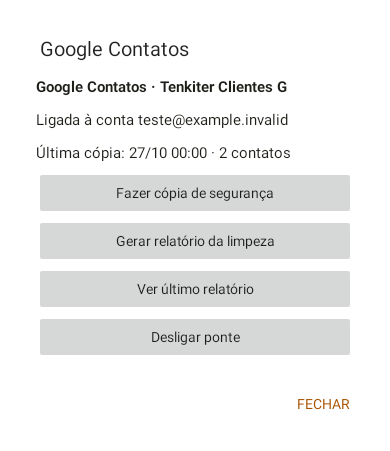
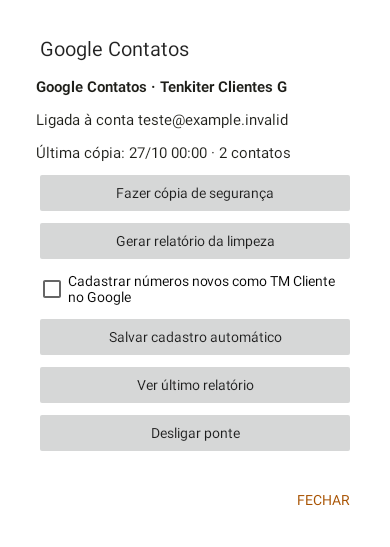
Mantém paridade com limpeza aprovada e cadastro de contatos atuais

Changed region(s): [[0.0923, 0.0621, 0.9231, 0.8381], [0.7385, 0.8692, 0.8923, 0.9313]]

diff --git a/android/app/src/main/java/br/com/tenkitermodas/mensagens/NativeAdministration.kt b/android/app/src/main/java/br/com/tenkitermodas/mensagens/NativeAdministration.kt
@@ -157,6 +157,12 @@ class NativeAdministration(private val activity:Activity,private val scope:Corou
             box.addView(button("Gerar relatório da limpeza"){
                 builder().setTitle("Gerar relatório?").setMessage("O relatório somente lê os contatos em partes. Não junta, corrige ou apaga contatos.").setPositiveButton("Confirmar"){_,_->contactsJob(true)}.setNegativeButton("Cancelar",null).show()
             }.apply{isEnabled=backup!=null})
+            r.optJSONObject("limpeza")?.let{last->box.addView(text("Última limpeza: "+stamp(last.optString("em"))+" · ${last.optInt("juntados")} pessoas juntadas · ${last.optInt("padronizados")} padronizados · ${last.optInt("criados")} novos"))}
+            val automatic=CheckBox(activity).apply{text="Cadastrar números novos como TM Cliente no Google";minHeight=dp(48);isChecked=r.optBoolean("auto")};box.addView(automatic)
+            box.addView(button("Salvar cadastro automático"){
+                confirm("Alterar cadastro automático?",if(automatic.isChecked)"Cada número novo do WhatsApp poderá criar um contato TM Cliente no Google."else"Os próximos números não serão cadastrados automaticamente.",{repo.administration("/msg/contatos/auto",JSONObject().put("ligado",automatic.isChecked))}){toast("Cadastro automático atualizado.");close();contacts()}
+            })
+            r.optJSONObject("fila")?.let{queue->box.addView(text("Cadastro automático: ${queue.optInt("feitos")} criados · ${queue.optInt("pendentes")} na fila · ${queue.optInt("falhas")} com erro"))}
             box.addView(button("Ver último relatório"){report(r.optJSONObject("relatorio"))})
             box.addView(button("Desligar ponte"){
                 confirm("Desligar a ponte?","A conexão com Google Contatos será removida. Nenhum contato será apagado.",{repo.administration("/msg/contatos/config",JSONObject().put("desligar",true))}){close();contacts()}
@@ -164,35 +170,49 @@ class NativeAdministration(private val activity:Activity,private val scope:Corou
         }
         sheet("Google Contatos",box)
     }}
-    private fun contactsJob(reporting:Boolean){
+    private fun contactsJob(reporting:Boolean,cleaning:Boolean=false){
         val box=column();val label=text("Preparando…");box.addView(label)
         val progress=ProgressBar(activity,null,android.R.attr.progressBarStyleHorizontal).apply{max=100;isIndeterminate=true};box.addView(progress)
-        box.addView(text("Mantenha esta tela aberta. Parar não altera os contatos; uma nova tentativa recomeça a operação."))
+        box.addView(text(if(cleaning)"Mantenha esta tela aberta. Se parar, alterações já aplicadas permanecem. Confira o resultado antes de continuar."else"Mantenha esta tela aberta. Parar não altera os contatos; uma nova tentativa recomeça a operação."))
         val stop=java.util.concurrent.atomic.AtomicBoolean(false)
-        val d=builder().setTitle(if(reporting)"Lendo contatos"else"Copiando contatos").setView(box).setCancelable(false).setNegativeButton("Parar após esta parte",null).show()
+        val d=builder().setTitle(if(cleaning)"Aplicando limpeza"else if(reporting)"Lendo contatos"else"Copiando contatos").setView(box).setCancelable(false).setNegativeButton("Parar após esta parte",null).show()
         d.getButton(AlertDialog.BUTTON_NEGATIVE).setOnClickListener{stop.set(true);it.isEnabled=false;label.text="Parando após esta parte…"}
         activity.window.addFlags(android.view.WindowManager.LayoutParams.FLAG_KEEP_SCREEN_ON)
         val owner=repo.store.stampedAuth()
         fun currentOwner()=owner.second==repo.store.generation&&owner.first?.owner==repo.store.auth()?.owner
         work({
-            fun check(){if(stop.get())throw Exception("Operação interrompida. Os contatos não foram alterados.");if(!currentOwner())throw AccessRevoked();if(!scope.isActive)throw CancellationException()}
+            fun check(){if(stop.get())throw Exception(if(cleaning)"Limpeza interrompida. O que já foi feito permanece; confira o resultado."else"Operação interrompida. Os contatos não foram alterados.");if(!currentOwner())throw AccessRevoked();if(!scope.isActive)throw CancellationException()}
             fun call(path:String,body:JSONObject):JSONObject{check();return repo.administration(path,body)}
-            try{
-                if(reporting)call("/msg/contatos/relatorio",JSONObject().put("etapa","inicio"))
-                var page="";var folder="";var finished=false;var latest=JSONObject()
+            fun update(title:String,r:JSONObject,count:String="lidos",totalKey:String="total"){
+                val read=r.optInt(count);val total=maxOf(read,r.optInt(totalKey))
+                activity.runOnUiThread{if(d.isShowing&&currentOwner()){label.text="$title · $read de $total";progress.isIndeterminate=total==0;if(total>0)progress.progress=(read.toLong()*100/total).toInt()}}
+            }
+            fun pages(report:Boolean):JSONObject{
+                if(report)call("/msg/contatos/relatorio",JSONObject().put("etapa","inicio"))
+                var page="";var folder=""
                 for(part in 0 until 400){
-                    val payload=if(reporting)JSONObject().put("etapa","parte")else JSONObject().put("partes",true)
+                    val payload=if(report)JSONObject().put("etapa","parte")else JSONObject().put("partes",true)
                     if(page.isNotBlank())payload.put("pagina",page);if(folder.isNotBlank())payload.put("pasta",folder)
-                    latest=call(if(reporting)"/msg/contatos/relatorio"else"/msg/contatos/backup",payload)
-                    val read=latest.optInt("lidos");val total=maxOf(read,latest.optInt(if(reporting)"total"else"totalPessoas"))
-                    activity.runOnUiThread{if(d.isShowing&&currentOwner()){label.text="$read de $total contatos";progress.isIndeterminate=total==0;if(total>0)progress.progress=(read.toLong()*100/total).toInt()}}
-                    page=latest.optString("proxima");folder=latest.optString("pasta")
-                    if(if(reporting)page.isBlank()else latest.optBoolean("fim")){finished=true;break}
-                }
-                if(!finished)throw Exception("Limite de partes atingido. Recomece a operação.")
-                if(reporting)call("/msg/contatos/relatorio",JSONObject().put("etapa","fim"))else latest
+                    val r=call(if(report)"/msg/contatos/relatorio"else"/msg/contatos/backup",payload)
+                    update(if(report)"Lendo contatos"else"Cópia de segurança",r,totalKey=if(report)"total"else"totalPessoas")
+                    page=r.optString("proxima");folder=r.optString("pasta")
+                    if(if(report)page.isBlank()else r.optBoolean("fim"))return if(report)call("/msg/contatos/relatorio",JSONObject().put("etapa","fim"))else r
+                };throw Exception("Limite de partes atingido. Recomece a operação.")
+            }
+            fun cleanStage(stage:String,title:String){
+                var since=0;var page="";var continuing=false
+                for(part in 0 until 400){
+                    val body=JSONObject().put("etapa",stage)
+                    when(stage){"juntar"->body.put("desde",since);"padronizar"->if(page.isNotBlank())body.put("pagina",page);"criar"->body.put("continuar",continuing)}
+                    val r=call("/msg/contatos/limpeza",body);update(title,r,"feito")
+                    since=r.optInt("proximo");page=r.optString("proxima");continuing=true
+                    if(when(stage){"juntar"->since==0;"padronizar"->page.isBlank();else->r.optInt("restantes")==0})return
+                };throw Exception("Limpeza interrompida pelo limite de partes. Confira o resultado.")
+            }
+            try{
+                if(cleaning){pages(false);pages(true);cleanStage("juntar","Juntando pessoas");cleanStage("padronizar","Padronizando números");cleanStage("criar","Criando TM Cliente");call("/msg/contatos/limpeza",JSONObject().put("etapa","fim"))}else pages(reporting)
             }finally{activity.runOnUiThread{d.dismiss();activity.window.clearFlags(android.view.WindowManager.LayoutParams.FLAG_KEEP_SCREEN_ON)}}
-        }){r->if(reporting)report(r.optJSONObject("relatorio")?:r)else{toast("Cópia de segurança concluída.");close();contacts()}}
+        }){r->if(cleaning){toast("Limpeza concluída: ${r.optInt("juntados")} pessoas juntadas, ${r.optInt("padronizados")} padronizados e ${r.optInt("criados")} novos. Cadastro automático ligado.");close();contacts()}else if(reporting)report(r.optJSONObject("relatorio")?:r)else{toast("Cópia de segurança concluída.");close();contacts()}}
     }
     private fun report(r:JSONObject?){
         val box=column();if(r==null){box.addView(text("Ainda não há relatório. Gere após a cópia de segurança."));sheet("Relatório dos contatos",box);return}
@@ -205,7 +225,11 @@ class NativeAdministration(private val activity:Activity,private val scope:Corou
                     detail.addView(text(line))
                 };if(detail.childCount==0)detail.addView(text("Nenhum."));sheet(label,detail)
             })
-        };sheet("Relatório dos contatos",box)
+        }
+        box.addView(text("A limpeza faz cópia nova, relê o relatório, junta pessoas repetidas, padroniza números e cria TM Cliente. Ao terminar liga o cadastro automático. Requer ponte 1.2."))
+        box.addView(button("Aplicar a limpeza aprovada"){
+            builder().setTitle("Aplicar limpeza no Google?").setMessage("Faz uma cópia nova e um relatório, junta repetidos preservando o nome mais completo, padroniza números e cria contatos TM Cliente. Duplicados são removidos após junção. Ao terminar, liga o cadastro automático. Isso altera contatos reais. Mantenha esta tela aberta.").setPositiveButton("Aplicar limpeza"){_,_->contactsJob(true,true)}.setNegativeButton("Cancelar",null).show()
+        });sheet("Relatório dos contatos",box)
     }
     private class HourChart(c:android.content.Context,private val hours:List<JSONObject>):View(c){
         private val ink=android.graphics.Paint(android.graphics.Paint.ANTI_ALIAS_FLAG)

diff --git a/android/app/src/test/java/br/com/tenkitermodas/mensagens/NativeAdministrationTest.kt b/android/app/src/test/java/br/com/tenkitermodas/mensagens/NativeAdministrationTest.kt
@@ -39,7 +39,7 @@ class NativeAdministrationTest {
             return when{
                 path=="/msg/config"->JSONObject().put("ok",true).put("meuNome","Clarice").put("config",JSONObject().put("assinatura",true).put("lerCelular",JSONObject().put("whatsapp1",true).put("whatsapp2",false).put("instagram",true)))
                 path.startsWith("/msg/metricas")->JSONObject().put("ok",true).put("dias",if(path.contains("dias=7"))7 else 30).put("entradas",24).put("saidas",20).put("conversas",5).put("medianaMin",JSONObject.NULL).put("ate5min",70).put("aguardando",JSONObject().put("total",2).put("maisAntigas",JSONArray().put(JSONObject().put("id",1).put("nome","Cliente teste").put("desde","2026-10-27T00:00:00Z")))).put("porHora",JSONArray((0..23).map{JSONObject().put("hora",it).put("entradas",it).put("medianaMin",5)}))
-                path.startsWith("/msg/contatos/situacao")->JSONObject().put("ok",true).put("ligada",linked).put("conta","teste@example.invalid").apply{if(backup)put("backup",JSONObject().put("em","2026-10-27T00:00:00Z").put("total",2))}
+                path.startsWith("/msg/contatos/situacao")->JSONObject().put("ok",true).put("ligada",linked).put("conta","teste@example.invalid").apply{if(backup){put("backup",JSONObject().put("em","2026-10-27T00:00:00Z").put("total",2));put("relatorio",JSONObject().put("total",2))}}
                 path=="/msg/contatos/backup"->JSONObject().put("ok",true).put("fim",body?.optString("pagina")=="next").put("proxima",if(body?.optString("pagina")=="next")""else"next").put("pasta","folder-test-123").put("lidos",if(body?.optString("pagina")=="next")2 else 1).put("totalPessoas",2)
                 path=="/msg/contatos/relatorio"&&body?.optString("etapa")=="inicio"->JSONObject().put("ok",true)
                 path=="/msg/contatos/relatorio"&&body?.optString("etapa")=="parte"->JSONObject().put("ok",true).put("lidos",if(body.optString("pagina")=="next")2 else 1).put("total",2).put("proxima",if(body.optString("pagina")=="next")""else"next")
@@ -91,6 +91,15 @@ class NativeAdministrationTest {
         f.fake.linked=true;f.ui.contacts();val d=dialog("Google Contatos");button(d,"Fazer cópia de segurança").performClick();assertTrue(f.fake.writes.isEmpty());dialog("Fazer cópia dos contatos?").getButton(AlertDialog.BUTTON_POSITIVE).performClick()
         waitFor{f.fake.writes.size==2};dialog("Google Contatos")
         val first=f.fake.writes[0].second;val second=f.fake.writes[1].second;assertTrue(first.getBoolean("partes"));assertFalse(first.has("pagina"));assertEquals("next",second.getString("pagina"));assertEquals("folder-test-123",second.getString("pasta"));assertFalse(f.ui.active.not())
+    }}
+    @Test fun cleanupRequiresConfirmationAndMakesBackupAndReportBeforeMutations(){Fixture().use{f->
+        f.fake.linked=true;f.fake.backup=true;f.ui.contacts();button(dialog("Google Contatos"),"Ver último relatório").performClick();val report=dialog("Relatório dos contatos")
+        button(report,"Aplicar a limpeza aprovada").performClick();val confirm=dialog("Aplicar limpeza no Google?");assertTrue(f.fake.writes.isEmpty());confirm.getButton(AlertDialog.BUTTON_NEGATIVE).performClick();assertTrue(f.fake.writes.isEmpty())
+        button(report,"Aplicar a limpeza aprovada").performClick();dialog("Aplicar limpeza no Google?").getButton(AlertDialog.BUTTON_POSITIVE).performClick();waitFor{f.fake.writes.size==10};dialog("Google Contatos")
+        assertEquals(listOf("/msg/contatos/backup","/msg/contatos/backup","/msg/contatos/relatorio","/msg/contatos/relatorio","/msg/contatos/relatorio","/msg/contatos/relatorio","/msg/contatos/limpeza","/msg/contatos/limpeza","/msg/contatos/limpeza","/msg/contatos/limpeza"),f.fake.writes.map{it.first});assertEquals(listOf("juntar","padronizar","criar","fim"),f.fake.writes.takeLast(4).map{it.second.getString("etapa")})
+    }}
+    @Test fun automaticContactsDoNotChangeUntilSavedAndConfirmed(){Fixture().use{f->
+        f.fake.linked=true;f.ui.contacts();val d=dialog("Google Contatos");val check=all(d.window!!.decorView).filterIsInstance<CheckBox>().first{it.text.startsWith("Cadastrar números")};check.performClick();assertTrue(f.fake.writes.isEmpty());button(d,"Salvar cadastro automático").performClick();assertTrue(f.fake.writes.isEmpty());dialog("Alterar cadastro automático?").getButton(AlertDialog.BUTTON_POSITIVE).performClick();waitFor{f.fake.writes.size==1};assertEquals("/msg/contatos/auto",f.fake.writes.single().first);assertTrue(f.fake.writes.single().second.getBoolean("ligado"))
     }}
     @Test fun bridgeSetupMasksTheKeyAndDoesNotSaveBeforeTheUserChooses(){Fixture().use{f->
         f.ui.contacts();val d=dialog("Google Contatos");val fields=all(d.window!!.decorView).filterIsInstance<EditText>()

diff --git a/android/app/src/main/java/br/com/tenkitermodas/mensagens/NativeRepository.kt b/android/app/src/main/java/br/com/tenkitermodas/mensagens/NativeRepository.kt
@@ -119,7 +119,7 @@ class NativeRepository internal constructor(private val context:Context,val stor
         }catch(e:AccessRevoked){logout();throw e}
     }
     fun administration(path:String,body:JSONObject?=null):JSONObject=lock.withLock{
-        require(path.substringBefore('?') in setOf("/msg/config","/msg/metricas","/msg/resumo","/msg/diagnostico","/msg/instagram/situacao","/msg/instagram/segredo","/msg/instagram/assinar","/msg/ligar","/msg/pausar","/msg/contatos/situacao","/msg/contatos/config","/msg/contatos/backup","/msg/contatos/relatorio","/msg/stories"))
+        require(path.substringBefore('?') in setOf("/msg/config","/msg/metricas","/msg/resumo","/msg/diagnostico","/msg/instagram/situacao","/msg/instagram/segredo","/msg/instagram/assinar","/msg/ligar","/msg/pausar","/msg/contatos/situacao","/msg/contatos/config","/msg/contatos/backup","/msg/contatos/relatorio","/msg/contatos/limpeza","/msg/contatos/auto","/msg/stories"))
         val a=store.auth()?:throw AccessRevoked()
         try{api.call(path,a,body).also{if(!store.current(a))throw AccessRevoked()}}catch(e:AccessRevoked){logout();throw e}
     }

diff --git a/docs/revisoes/android-paridade-2.2.md b/docs/revisoes/android-paridade-2.2.md
@@ -11,8 +11,8 @@ Skill `.agents/skills/tenkiter-estetica-humana/SKILL.md`, checklist e fontes rel
 - [Produtos](android-paridade-2.2/products-native.png), [busca focada/altura útil 480](android-paridade-2.2/products-keyboard-native.png), [configurações](android-paridade-2.2/settings-native.png), [contatos](android-paridade-2.2/contacts-native.png).
 - Exportação: [320](android-paridade-2.2/export-320.png), [390](android-paridade-2.2/export-390.png), [412](android-paridade-2.2/export-412.png), [1440](android-paridade-2.2/export-1440.png). [Painel](android-paridade-2.2/dashboard-native.png), [gráfico/ações ao fim](android-paridade-2.2/dashboard-hours-native.png).
 - [Escolha de prévia no compositor](android-paridade-2.2/conversation-link-preview.png), visível somente com link no WhatsApp.
-- 36 testes Android API35 com gráficos nativos: MotionEvent DOWN/espera/UP em texto e botão Espiar; não abre conversa nem confirma leitura, marca a seleção e disponibiliza Encerrar. Atualização durante o toque não cancela gesto. Botão Selecionar e ações do lote operam os IDs selecionados.
-- Produtos/links/rascunho, prévia por canal, cópia/relatório por páginas com progresso e parada, configurações e exportação com confirmação, painel por período/canal, relatório de contatos somente leitura e revogação de sessão. Datas inválidas mantêm o formulário, erro de conexão mantém caminho de nova tentativa. Testes sem envios/alterações reais.
+- 38 testes Android API35 com gráficos nativos: MotionEvent DOWN/espera/UP em texto e botão Espiar; não abre conversa nem confirma leitura, marca a seleção e disponibiliza Encerrar. Atualização durante o toque não cancela gesto. Botão Selecionar e ações do lote operam os IDs selecionados.
+- Produtos/links/rascunho, prévia por canal, cópia/relatório por páginas com progresso e parada, limpeza separada com confirmação e cópia/relatório prévios, configurações e exportação com confirmação, painel por período/canal, relatório de contatos somente leitura e revogação de sessão. Datas inválidas mantêm o formulário, erro de conexão mantém caminho de nova tentativa. Testes sem envios/alterações reais.
 
 ## Correções e medidas
 
@@ -20,4 +20,4 @@ O defeito era o evento de toque longo ficar apenas na ListView, enquanto o botã
 
 Cabeçalho 52dp, busca 56dp, faixas 2×52dp. Ao selecionar, as faixas dão lugar à barra de lote de 104dp, mantendo a posição da lista. Guia/Selecionar 48dp; ações críticas >=48dp; células >=96dp. Filtros têm rolagem horizontal deliberada, corpo não. Formulários administrativos em ScrollView; produtos com área flexível para teclado. Nome/preview truncam quando necessário; status e não lidas têm texto além de cor. Controles padrão mantêm foco Android e ordem sequencial, sem nova interação obrigatória somente por cor ou gesto.
 
-**APROVADO COM LIMITAÇÃO.** Lint Release sem erros; 36 testes passaram. Validação gráfica e interações são simuladas: 1440 é Android ampliado, teclado representado por foco/altura reduzida. Não houve teste físico de IME, TalkBack, instalação/atualização, gravação/codecs/visualizadores, seletor de compartilhamento ou entrega/ações de notificação com app fechado. Essas limitações não são apresentadas como teste real concluído.
+**APROVADO COM LIMITAÇÃO.** Lint Release sem erros; 38 testes passaram. Validação gráfica e interações são simuladas: 1440 é Android ampliado, teclado representado por foco/altura reduzida. Não houve teste físico de IME, TalkBack, instalação/atualização, gravação/codecs/visualizadores, seletor de compartilhamento ou entrega/ações de notificação com app fechado. Essas limitações não são apresentadas como teste real concluído.

diff --git a/docs/android/APP-2.2.md b/docs/android/APP-2.2.md
@@ -13,7 +13,7 @@ No menu **⋮** da lista:
 - **Painel de atendimento:** espera atual, primeira resposta, encerramentos, perguntas por hora, canais e períodos de 7/30/90 dias. Toque nas conversas que esperam há mais tempo para atender.
 - **Configurações de leitura e nome:** confirmação de leitura por canal, últimas tentativas, nome do atendente e assinatura compartilhada. Só Salvar altera a configuração.
 - **Conexões e gravação:** ativar recebimento/envios/leituras nos WhatsApps, pausar/retomar, diagnósticos WhatsApp e Instagram, guardar segredo Meta, assinar mensagens e copiar webhook protegido. Confirme as operações de alteração.
-- **Google Contatos:** ligar a ponte existente, fazer cópia no Drive, gerar/ver relatório e desligar. Relatório não junta nem apaga contatos. A aplicação de limpeza não faz parte dessa tela.
+- **Google Contatos:** ligar a ponte existente, fazer cópia no Drive, gerar/ver relatório e desligar. Relatório não junta nem apaga contatos. **Aplicar a limpeza aprovada**, no relatório, pede confirmação e faz cópia nova antes de juntar/padronizar/criar contatos; ao terminar liga o cadastro automático. Essa operação altera contatos reais, diferentemente de gerar o relatório.
 - **Exportar conversas:** TXT para IA, CSV ou JSON; todas, canal ou conversa; datas inicial e final. O Android abre Salvar/Compartilhar e o usuário escolhe o destino. Arquivos grandes podem ser limitados pelo servidor, com aviso para dividir por datas.
 
 No menu de uma conversa: encerrar/reabrir, marcar não lida, abrir no outro WhatsApp, leitura/assinatura, copiar texto para IA e exportar. **Espiar** conserva não lida e oculta o envio; **Abrir para responder** inicia atendimento normal. Produtos, respostas rápidas, anexos e gravação continuam disponíveis.
@@ -30,8 +30,8 @@ A lista local mostra até mil conversas por consulta; busca também consulta o t
 
 A prévia de links acompanha o painel web atual: ao escrever um link no WhatsApp, **Mostrar prévia do link (miniatura)** aparece acima do campo; começa desmarcada e lembra a escolha por canal. Não se aplica a anexos ou Instagram. Produtos/seleções usam o título correspondente quando o catálogo já foi consultado.
 
-Cópia e relatório de Google Contatos usam partes, com andamento visível, tela mantida acesa enquanto o app está aberto e **Parar após esta parte**. A cópia requer a ponte 1.1 já publicada. Se interromper ou perder conexão, recomece; nenhuma limpeza é aplicada.
+Cópia e relatório de Google Contatos usam partes, com andamento visível, tela mantida acesa enquanto o app está aberto e **Parar após esta parte**. A cópia requer a ponte atualizada (1.2 para limpeza). Se interromper ou perder conexão, recomece; relatório/cópia não aplicam limpeza. Na limpeza confirmada, alterações já aplicadas permanecem se parar.
 
 O menu Atendimento completo continua como alternativa, mas as operações listadas acima já são nativas. Veja [matriz de funções](PARIDADE-ATENDIMENTO-2.2.md) e [revisão visual](../revisoes/android-paridade-2.2.md).
 
-36 testes Robolectric, lint Release e compilação assinada passaram. Instalação, teclado real, TalkBack, microfone/codecs, compartilhamento com outros apps e entrega de notificação com app fechado precisam de conferência no aparelho. Nenhuma mensagem, notificação ou alteração de conexão real foi usada como teste.
+38 testes Robolectric, lint Release e compilação assinada passaram. Instalação, teclado real, TalkBack, microfone/codecs, compartilhamento com outros apps e entrega de notificação com app fechado precisam de conferência no aparelho. Nenhuma mensagem, notificação ou alteração de conexão real foi usada como teste.

diff --git a/docs/android/PARIDADE-ATENDIMENTO-2.2.md b/docs/android/PARIDADE-ATENDIMENTO-2.2.md
@@ -21,14 +21,15 @@ Referência: ações do controlador `admin-mensagens.js`, mantidas nas rotas exi
 | `painel`, `painel-dias`, `fechar-painel` | Painel nativo com 7/30/90 dias, canais, indicadores, espera, gráfico/detalhe de horas, exportar e fechar |
 | `conexao`, `ligar`, `pausar` | Conexões e gravação: WhatsApps, pausa/retomada, diagnóstico e confirmação explícita |
 | `segredo`, `assinar` | Diagnóstico Instagram: segredo Meta mascarado, guardar no servidor e assinatura de mensagens |
+| `ponte-limpar`, `ponte-auto` | Aplicar limpeza com confirmação, cópia/relatório novos antes de juntar/padronizar/criar; progresso/parada e cadastro automático salvo explicitamente |
 | `ponte-ligar`, `ponte-backup`, `ponte-relatorio`, `ponte-ver`, `ponte-desligar` | Google Contatos: ponte, cópia no Drive, relatório somente leitura/detalhes e desligamento |
 
-A versão 7.35 foi integrada sem sobrescrever prévia de links, Zernio ou o novo contrato de contatos do site. No nativo, a escolha de prévia aparece no compositor e usa `/msg/enviar` com os mesmos campos; Google Contatos usa `partes` e `etapa: inicio/parte/fim`, exibe progresso e permite parar após a parte corrente. Nenhuma configuração Zernio foi modificada: ela pertence a Conexões da Gestão, fora do módulo de atendimento.
+A versão 7.38.2 foi integrada sem sobrescrever prévia de links, Zernio ou o novo contrato de contatos do site. No nativo, a escolha de prévia aparece no compositor e usa `/msg/enviar` com os mesmos campos; Google Contatos usa `partes` e `etapa: inicio/parte/fim`, exibe progresso e permite parar após a parte corrente. Nenhuma configuração Zernio foi modificada: ela pertence a Conexões da Gestão, fora do módulo de atendimento.
 
 ## Verificação e limites
 
 - `NativeInboxTest` (19): gesto real despachado por ListView/filhos e Espiar, atualização durante gesto, seleção/bulk, abertura/leitura, filtros, rascunhos, paginação/histórico além de mil, estados e viewports. O teste antigo que chamava o listener manualmente não demonstrava o gesto; foi substituído.
 - `NativeToolsTest` (7): produtos/seleção/estoque/busca/link, respostas, preços com 17 fixtures do catálogo, anexos e microfone/nenhum reenvio automático.
-- `NativeAdministrationTest` (10): configuração salva explicitamente, métricas/periodicidade/canal, exportação e datas, cópia sem sessão, limpeza após revogação, pausa confirmada, ponte/relatório sem mutação implícita, controles alcançáveis em várias larguras.
+- `NativeAdministrationTest` (12): configuração salva explicitamente, métricas/periodicidade/canal, exportação e datas, cópia sem sessão, limpeza após revogação, pausa confirmada, ponte/relatório sem mutação implícita, controles alcançáveis em várias larguras.
 - Serviços e Android simulados (API35/Robolectric); sem efeitos em conversas, conexões ou contatos reais. Sem teste físico de notificações, instalação, codecs ou TalkBack. Notificações existentes foram preservadas; não se afirma que o Android sempre expande o aviso.
-- Janela local e exportações têm limites documentados no [guia](APP-2.2.md). O compartilhamento abre o seletor Android, não envia automaticamente para alguém. Relatório de contatos nunca aplica limpeza.
+- Janela local e exportações têm limites documentados no [guia](APP-2.2.md). O compartilhamento abre o seletor Android, não envia automaticamente para alguém. Gerar relatório nunca aplica limpeza; Aplicar limpeza é uma ação separada, confirmada pelo usuário.

diff --git a/CHANGELOG.md b/CHANGELOG.md
@@ -12,8 +12,8 @@ versionamento [SemVer](https://semver.org/lang/pt-BR/).
 - Painel de atendimento e gráfico por hora, configurações de leitura/nome/assinatura, exportação TXT/CSV/JSON e cópia para IA passam a funcionar na tela nativa pelas rotas existentes.
 - Conexões WhatsApp/Instagram, diagnósticos, pausa e retomada, segredo/assinatura Meta e ponte Google Contatos (cópia, relatório somente leitura e desligamento) disponíveis no menu nativo. Alterações exigem ações explícitas.
 - Produtos com fotos, estoque, busca sem acentos, seleção persistente e links; contexto de stories publicados; histórico anterior além da janela local e botão de novas mensagens. Avisos locais podem ser descartados sem reenviar.
-- Integra as mudanças simultâneas de 7.35 sem perda: prévia de links no compositor e contatos por partes com progresso/parada/tela acesa.
-- APK 2.2.0/code5, mesma assinatura. 36 testes Android simulados; lint Release sem erros. Não envia mensagens ou muda conexões reais como teste.
+- Integra as mudanças simultâneas até 7.38.2 sem perda: prévia de links no compositor e contatos por partes com progresso/parada/tela acesa.
+- APK 2.2.0/code5, mesma assinatura. 38 testes Android simulados; lint Release sem erros. Não envia mensagens ou muda conexões reais como teste.
 ## 7.38.2 — Conferir as entregas do Zernio — 2026-10-27
 
 - Conexões → Instagram Direct · Zernio: botões **"Conferir entregas"** e **"Testar aviso"**. O servidor pergunta ao próprio Zernio se o aviso de mensagens está ativo, se aponta para este servidor e para o Instagram da loja, e mostra as últimas 10 entregas com o resultado (ex.: "failed (HTTP 404)"). "Testar aviso" pede ao Zernio um aviso de teste e confere se ele chegou aqui.
